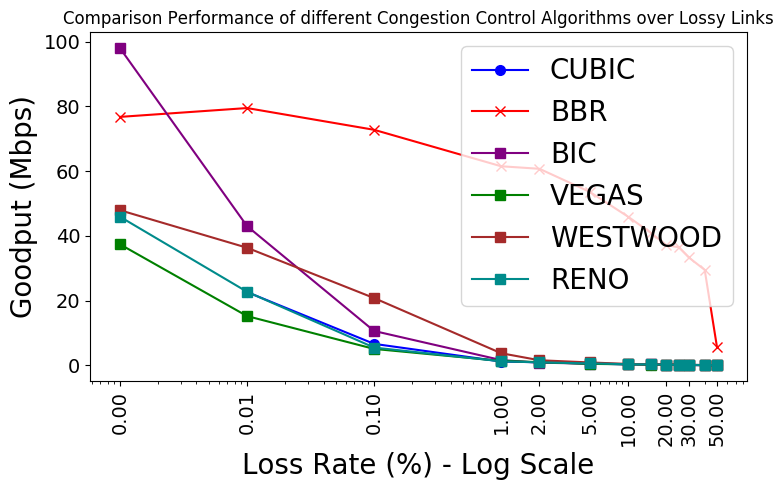
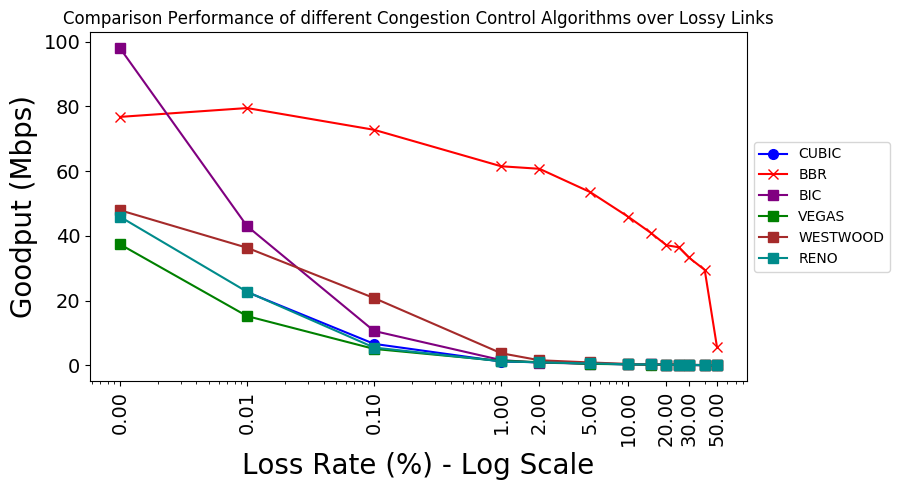
Update figure 2 experiment to move legend to the right

diff --git a/mahimahi/bbr_plot.py b/mahimahi/bbr_plot.py
@@ -326,7 +326,8 @@ def make_experiment2_figure(logfile):
                 yaxis="Goodput (Mbps)",
                 title="Comparison Performance of different Congestion Control Algorithms over Lossy Links")
 
-    plot_legend(plt)
+    plt.legend(loc='center left', fontsize=10, bbox_to_anchor=(1, 0.5))
+    plt.tight_layout()
 
     save_figure(plt, name="experiment2_figure.png")
 
